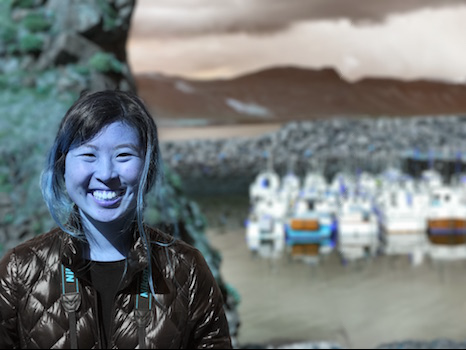
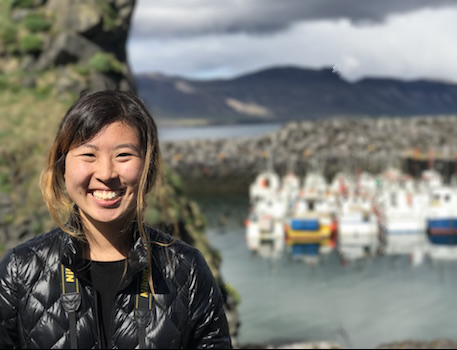
multiple iterations, changed bgr to rgb

diff --git a/tests/05_deleteSeams2/seamCarving.py b/tests/05_deleteSeams2/seamCarving.py
@@ -11,10 +11,10 @@ from matplotlib import pyplot as plt
 from PIL import Image
 
 def readImage(image):
-    bgr_img = cv2.imread( image )
-    im = cv2.cvtColor(bgr_img, cv2.COLOR_BGR2RGB)
+    im = cv2.imread( image )
     im = im.astype(np.uint8)
     return im
+
 
 def energyFunction(image):
     im = cv2.imread( image )
@@ -122,7 +122,6 @@ def deleteSeam(image, path):
 def main():
     imageFile = sys.argv[1]
     origImage = readImage(imageFile)
-
     for i in range(10):
         image = readImage(imageFile)
         energyMap = energyFunction(imageFile)
